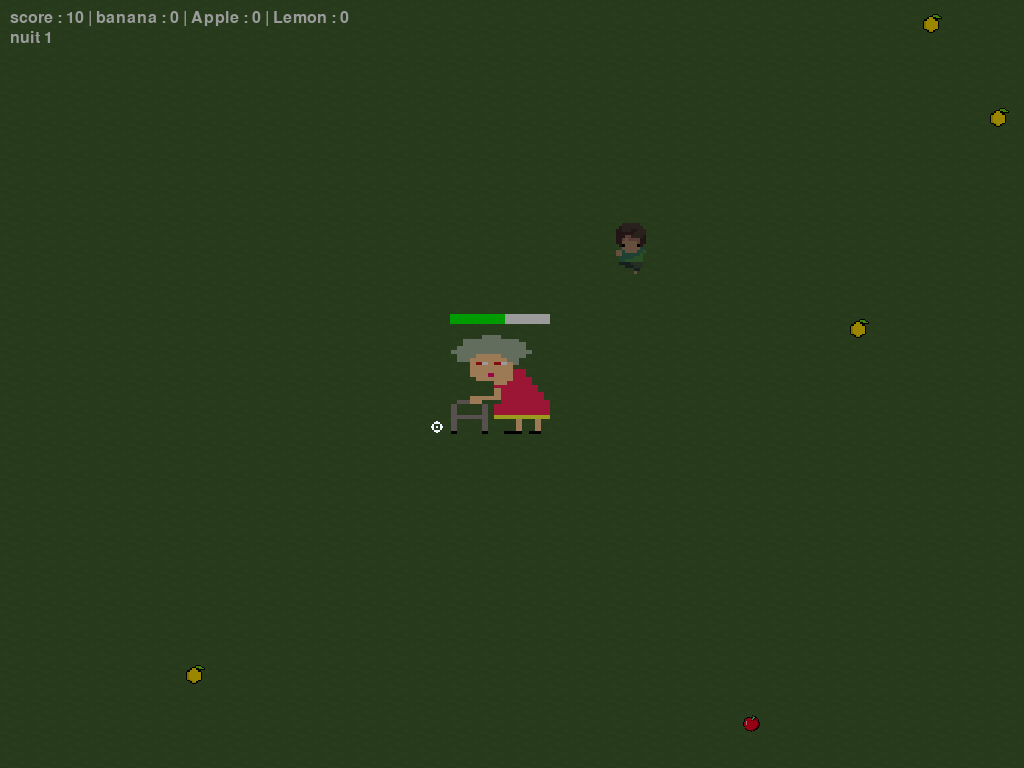
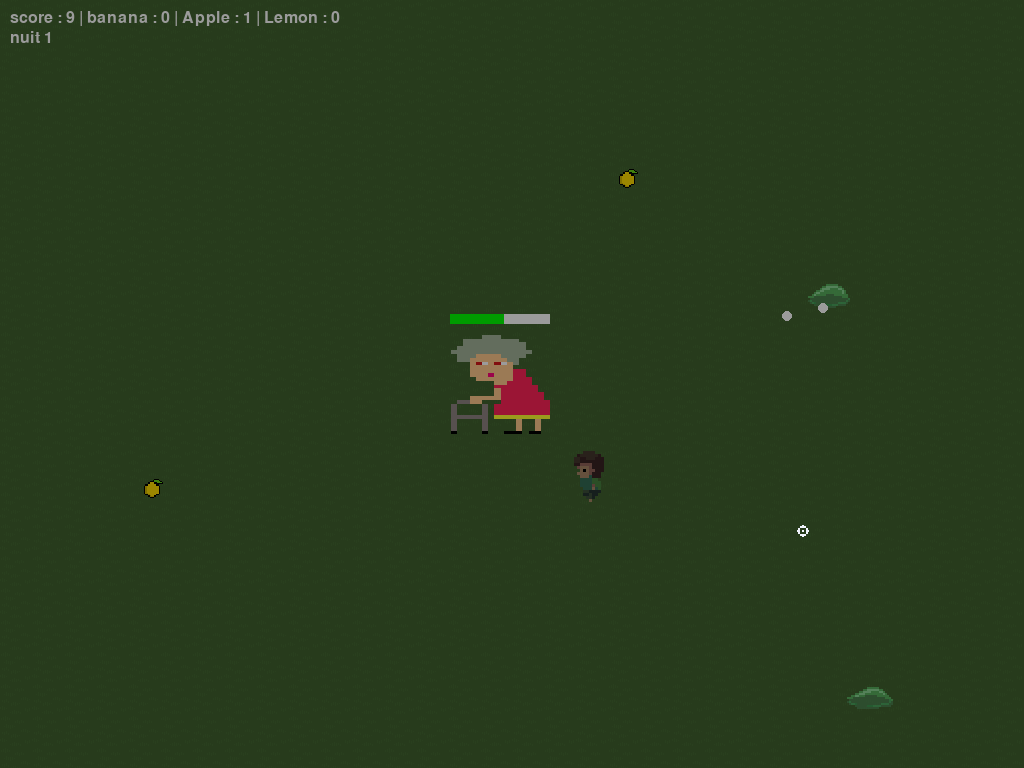
L'obscurité lors du changement jour/nuit change de manière progressive

diff --git a/gamejam_project/gamejam_project/main.py b/gamejam_project/gamejam_project/main.py
@@ -51,6 +51,8 @@ nbBanana = 0
 nbApple = 0
 nbLemon = 0
 
+darkness = 0
+
 
 def animCycleAnouncement(imgName):
     night_img = pygame.image.load(imgName)
@@ -195,11 +197,20 @@ if __name__ == '__main__':
         WIN.blit(text, (10, 10))
 
         if cycle.getCycle() == "night":
+            if darkness < 100:
+                darkness += 1
             PURPLE = (255, 0, 255)
             purple_image = pygame.Surface((WIN_WIDTH, WIN_HEIGHT))
-            purple_image.set_alpha(100)
+            purple_image.set_alpha(darkness)
             WIN.blit(purple_image, (0, 0))
-
+        else: # cycle = day
+            if darkness > 0:
+                darkness -= 1
+                PURPLE = (255, 0, 255)
+                purple_image = pygame.Surface((WIN_WIDTH, WIN_HEIGHT))
+                purple_image.set_alpha(darkness)
+                WIN.blit(purple_image, (0, 0))
+                
         coord = pygame.mouse.get_pos()
         WIN.blit(CURSOR, coord)
         pygame.display.update()
